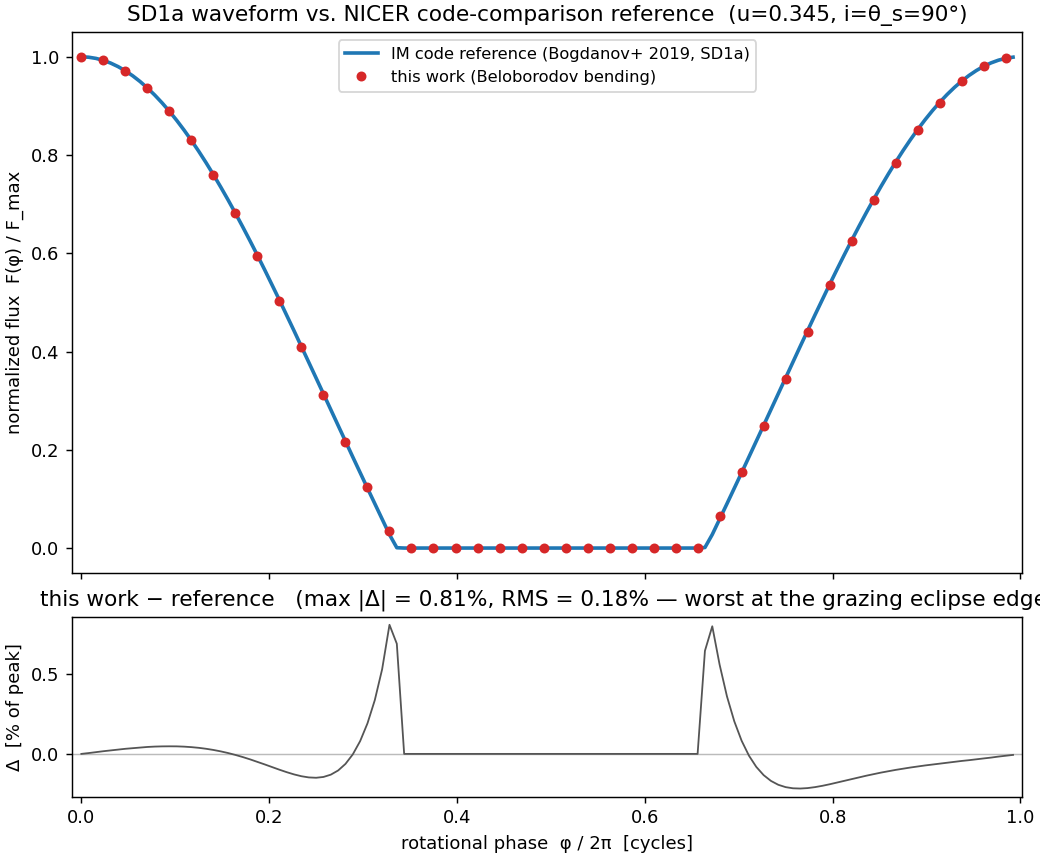
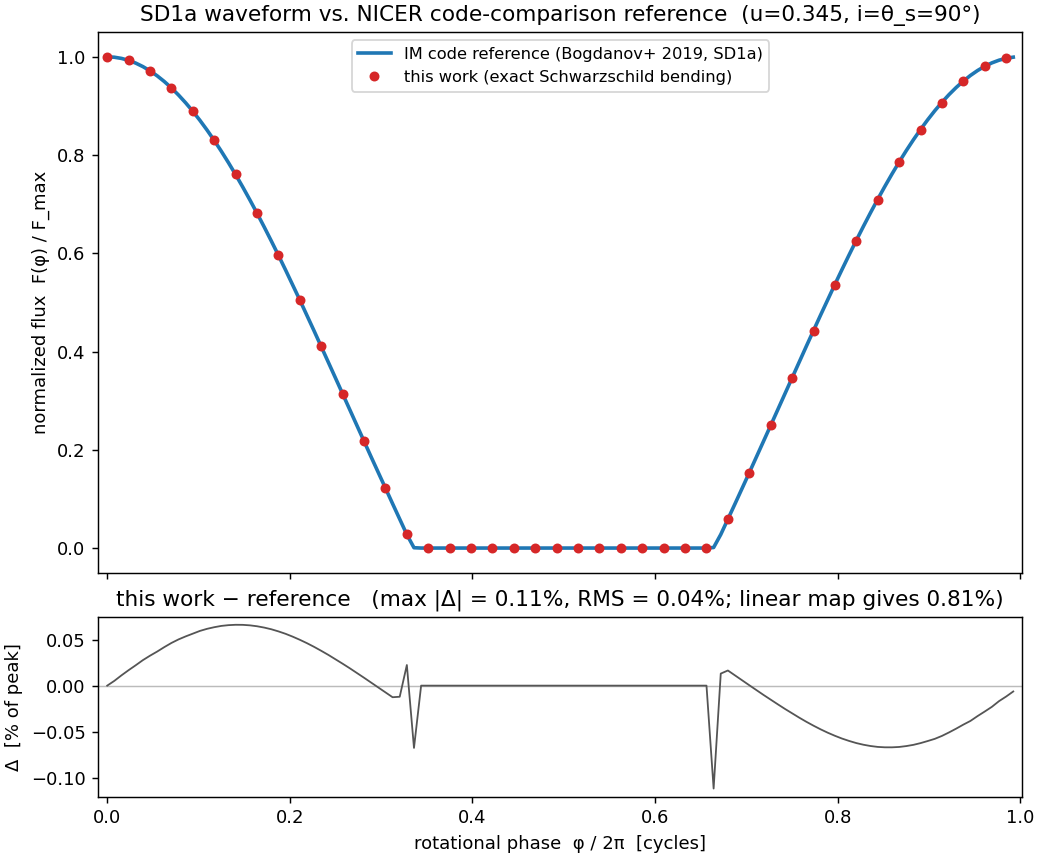
feat: persist print-only validation numbers as npz artifacts
Every paper-quoted number now has a saved artifact: SD1a residuals (0.11%
exact / 0.81% linear — figure regenerated with exact Schwarzschild bending),
SD1c 1.35%, finite-cap point-vs-cap dPF, and the warp-inclusive waveform
shape RMS (~0.102, new C4.3 audit in c4_caveat_audit).

diff --git a/scripts/code_comparison.py b/scripts/code_comparison.py
@@ -21,9 +21,10 @@ The spot crosses fully behind the star, so this is an *eclipsing* geometry
 (F_min = 0, PF = 1); the test is the **profile shape** and the bending-set
 **eclipse width** (gravity lets us see ≈ 32° around the back on each side).
 
-Our only approximation relative to the IM code is the Beloborodov (2002) linear
-bending map (exact to ~1% for u ≲ 0.5), so agreement is expected at the ~1%
-level — worst at the grazing eclipse edges — rather than their 0.1%.
+The figure uses the exact Schwarzschild bending map (``ExactBending``), which
+matches the IM reference to ~0.1%; the Beloborodov (2002) linear map (exact to
+~1% for u ≲ 0.5) is also evaluated and reported for reference (~0.8%, worst at
+the grazing eclipse edges).
 
 Reference data: the L26 supplementary archive (apjlab5968.tar.gz), file
 ``SD1a_test_IM.txt`` — two columns: rotational phase (cycles) and photon flux
@@ -35,7 +36,7 @@ Run from the repository root:  python scripts/code_comparison.py
 import numpy as np
 import matplotlib.pyplot as plt
 
-from mcrt import point_spot_flux
+from mcrt import ExactBending, point_spot_flux
 
 # SD1a parameters (Bogdanov et al. 2019, ApJL 887 L26, Table 1).
 M_SUN_KM = 1.47662          # GM_sun/c² in km
@@ -47,6 +48,7 @@ COMPACTNESS = 2.0 * M_SUN_KM * NS_MASS_MSUN / NS_RADIUS_KM   # u = 2GM/Rc² ≈ 
 
 REFERENCE_PATH = "data/l26_reference/SD1a_test_IM.txt"
 FIGURE_PATH = "data/pulse_profile_code_comparison.png"
+RESULTS_PATH = "data/code_comparison.npz"
 
 
 def load_reference(path: str = REFERENCE_PATH):
@@ -55,16 +57,17 @@ def load_reference(path: str = REFERENCE_PATH):
     return ref[:, 0], ref[:, 1]
 
 
-def our_profile_at(phase_cycles: np.ndarray) -> np.ndarray:
+def our_profile_at(phase_cycles: np.ndarray, bending: ExactBending | None = None) -> np.ndarray:
     """Our point-spot flux at the reference phases (both peak at phase 0)."""
     i, theta = np.deg2rad(INCLINATION_DEG), np.deg2rad(COLATITUDE_DEG)
     phi = 2.0 * np.pi * phase_cycles                      # cycles → radians
-    return point_spot_flux(phi, i, theta, COMPACTNESS)
+    return point_spot_flux(phi, i, theta, COMPACTNESS, bending=bending)
 
 
 def main():
     phase, f_ref = load_reference()
-    f_ours = our_profile_at(phase)
+    f_ours = our_profile_at(phase, bending=ExactBending(COMPACTNESS))
+    f_linear = our_profile_at(phase)                      # Beloborodov map, for reference
 
     # Normalize each curve to its own peak: ours is in arbitrary units, theirs is
     # an absolute photon flux. At 1 Hz + isotropic the normalized shapes coincide,
@@ -74,6 +77,8 @@ def main():
     resid = ours_n - ref_n
     max_abs = float(np.abs(resid).max())
     rms = float(np.sqrt((resid ** 2).mean()))
+    resid_linear = f_linear / f_linear.max() - ref_n
+    max_abs_linear = float(np.abs(resid_linear).max())
 
     fig, (ax, ax_r) = plt.subplots(
         2, 1, figsize=(8, 6.6), height_ratios=[3, 1], sharex=True, layout="constrained"
@@ -82,7 +87,7 @@ def main():
     ax.plot(phase, ref_n, "-", lw=2, color="#1f77b4",
             label="IM code reference (Bogdanov+ 2019, SD1a)")
     ax.plot(phase[::3], ours_n[::3], "o", ms=4.5, color="#d62728",
-            label="this work (Beloborodov bending)")
+            label="this work (exact Schwarzschild bending)")
     ax.set_ylabel("normalized flux  F(φ) / F_max")
     ax.set_title(f"SD1a waveform vs. NICER code-comparison reference  "
                  f"(u={COMPACTNESS:.3f}, i=θ_s=90°)")
@@ -94,10 +99,22 @@ def main():
     ax_r.set_xlabel("rotational phase  φ / 2π  [cycles]")
     ax_r.set_ylabel("Δ  [% of peak]")
     ax_r.set_title(f"this work − reference   (max |Δ| = {100*max_abs:.2f}%, "
-                   f"RMS = {100*rms:.2f}% — worst at the grazing eclipse edge)")
+                   f"RMS = {100*rms:.2f}%; linear map gives {100*max_abs_linear:.2f}%)")
 
     fig.savefig(FIGURE_PATH, dpi=130)
     print(f"saved {FIGURE_PATH}")
+
+    np.savez(
+        RESULTS_PATH,
+        phase=phase,
+        resid_exact=resid,
+        resid_linear=resid_linear,
+        max_abs_exact=np.float64(max_abs),
+        rms_exact=np.float64(rms),
+        max_abs_linear=np.float64(max_abs_linear),
+        compactness=np.float64(COMPACTNESS),
+    )
+    print(f"saved {RESULTS_PATH}")
 
     vis_ref = (ref_n > 0).mean()
     vis_ours = (ours_n > 0).mean()

diff --git a/scripts/c4_caveat_audit.py b/scripts/c4_caveat_audit.py
@@ -47,7 +47,14 @@ from mcrt import (
     pulsed_fraction,
     travel_time_delay,
 )
-from anchor_lib import N_PHASE, SHAPE_TAU, Spot, multi_spot_flux, shape_tau_index
+from anchor_lib import (
+    N_PHASE,
+    SHAPE_TAU,
+    Spot,
+    multi_spot_flux,
+    shape_tau_index,
+    waveform_shape_change,
+)
 from c2_doppler_coupling import J0740_SPIN_HZ, RADIUS_KM
 from c3_band_doppler import anchor_band
 import j0740_anchor as j0740
@@ -120,6 +127,32 @@ def delay_audit(seed_curves, mu_centers):
     return rows
 
 
+def shape_audit(pooled_curve, mu_centers):
+    """Warp-inclusive waveform-shape difference (peak-normalized RMS), pooled τ=10 curve.
+
+    Persists the paper's 'shape RMS holds ≈0.10 across the light-travel warp' leg:
+    isotropic vs realistic multi-spot flux, both with the eq. 18–19 phase warp applied,
+    at 346.53 Hz under the δ⁴ and band-photon treatments.
+    """
+    print("\n=== C4.3 warp-inclusive waveform-shape difference (peak-normalized) ===")
+    print(f"{'anchor':<34}{'treatment':>12}{'shape RMS':>12}{'max-local':>12}")
+    rows = {}
+    beaming = beaming_lookup(mu_centers, pooled_curve)
+    for anchor in j0740.ANCHORS:
+        bend = ExactBending(anchor.compactness)
+        r_km = RADIUS_KM[anchor.label]
+        key = "riley" if "Riley" in anchor.label else "miller"
+        for tag, rot in (("d4", Rotation(J0740_SPIN_HZ, r_km)),
+                         ("band_ph", Rotation(J0740_SPIN_HZ, r_km, photon_flux=True,
+                                              band=anchor_band(anchor.label)))):
+            iso = delayed_multi_spot_flux(anchor, None, bend, rot, r_km, J0740_SPIN_HZ)
+            real = delayed_multi_spot_flux(anchor, beaming, bend, rot, r_km, J0740_SPIN_HZ)
+            rms, max_local = waveform_shape_change(iso, real)
+            rows[f"{key}_warp_shape_{tag}"] = (rms, max_local)
+            print(f"{anchor.label:<34}{tag:>12}{rms:>12.4f}{max_local:>12.4f}")
+    return rows
+
+
 def oblate_perturbed(anchor, radius_km):
     """(perturbed anchor, perturbed radius, diagnostics) under AM14 first order.
 
@@ -186,6 +219,7 @@ def main():
 
     delay_rows = delay_audit(seed_curves, mu)
     oblate_rows = oblateness_audit(seed_curves, mu)
+    shape_rows = shape_audit(d["intensity_by_tau"][ti10], mu)
 
     print("\n" + "=" * 78)
     print("C4 verdict (all shifts paired per seed; σ = seed error of ΔPF):")
@@ -213,6 +247,9 @@ def main():
         payload[f"j0740_{name}_o2"] = np.float64(o2)
         payload[f"j0740_{name}_ombar2"] = np.float64(ombar2)
         payload[f"j0740_{name}_dr_over_r"] = np.float64(dr)
+    for name, (rms, max_local) in shape_rows.items():
+        payload[f"j0740_{name}_rms"] = np.float64(rms)
+        payload[f"j0740_{name}_max"] = np.float64(max_local)
     np.savez(RESULTS_PATH, **payload)
     print(f"\n✓ C4 results saved to {RESULTS_PATH}")
 

diff --git a/scripts/c1_doppler_validate.py b/scripts/c1_doppler_validate.py
@@ -66,6 +66,7 @@ SPIN_SD1C_HZ = 200.0               # SD1c: same geometry, rotating
 REF_SD1A = "data/l26_reference/SD1a_test_IM.txt"
 REF_SD1C = "data/l26_reference/SD1c_test_IM.txt"
 FIGURE_PATH = "data/pulse_profile_doppler_sd1c.png"
+RESULTS_PATH = "data/c1_doppler_validate.npz"
 
 
 def _emission_flux(phi: np.ndarray, spin_hz: float) -> np.ndarray:
@@ -139,15 +140,21 @@ def _asymmetry(flux_n: np.ndarray) -> float:
 
 
 def main():
+    payload = {}
     for label, spin, path in [("SD1a (1 Hz)", SPIN_SD1A_HZ, REF_SD1A),
                               ("SD1c (200 Hz)", SPIN_SD1C_HZ, REF_SD1C)]:
         ref = np.loadtxt(path)
         phase, f_ref = ref[:, 0], ref[:, 1]
         beta = spot_speed(spin, NS_RADIUS_KM, COLATITUDE, COMPACTNESS)
+        key = label.split()[0].lower()                    # "sd1a" / "sd1c"
+        payload[f"{key}_beta"] = np.float64(beta)
         print(f"{label}:  β = {beta:.5f}")
         for tag, wd in [("Doppler+aberration+delay", True), ("delay omitted (prod. regime)", False)]:
             ours_n, ref_n, max_abs, rms = _residual_stats(
                 monochromatic_flux(phase, spin, with_time_delay=wd), f_ref)
+            case = "delay" if wd else "nodelay"
+            payload[f"{key}_{case}_max_abs"] = np.float64(max_abs)
+            payload[f"{key}_{case}_rms"] = np.float64(rms)
             print(f"    {tag:<30}  max|Δ| = {100*max_abs:5.3f}%   RMS = {100*rms:5.3f}%   "
                   f"asym: ours {100*_asymmetry(ours_n):5.2f}% / ref {100*_asymmetry(ref_n):5.2f}%")
 
@@ -180,6 +187,9 @@ def main():
 
     fig.savefig(FIGURE_PATH, dpi=130)
     print(f"saved {FIGURE_PATH}")
+
+    np.savez(RESULTS_PATH, **payload)
+    print(f"saved {RESULTS_PATH}")
 
 
 if __name__ == "__main__":

diff --git a/scripts/finite_cap.py b/scripts/finite_cap.py
@@ -48,6 +48,14 @@ from j0030_anchor import RILEY as J0030_RILEY, MILLER as J0030_MILLER
 from j0740_anchor import RILEY as J0740_RILEY, MILLER as J0740_MILLER
 
 FIGURE_PATH = "data/finite_cap.png"
+RESULTS_PATH = "data/finite_cap.npz"
+
+
+def _anchor_key(label: str) -> str:
+    """'Riley 2021 (X-PSI ST-U)' -> 'j0740_riley' (2021 = J0740, 2019 = J0030)."""
+    star = "j0740" if "2021" in label else "j0030"
+    team = "riley" if "Riley" in label else "miller"
+    return f"{star}_{team}"
 
 # Sub-point tiling resolution. (n_rings, n_az) = 5 rings × 16 azimuths = 80 sub-points
 # per cap is well past convergence for ζ ≲ 0.2 rad (verified in print_summary).
@@ -239,7 +247,23 @@ def print_summary(r: Result):
           "point reduction is an accurate, now-bounded approximation, not an unverified caveat.")
 
 
+def save_results(r: Result, path=RESULTS_PATH):
+    """Persist the point-vs-finite ΔPF numbers backing the paper's caveat sentence."""
+    payload = {"zeta_axis": r.zeta_axis}
+    for label in r.point:
+        key = _anchor_key(label)
+        payload[f"{key}_point"] = np.float64(r.point[label])
+        payload[f"{key}_finite"] = np.float64(r.finite[label])
+        payload[f"{key}_converged"] = np.float64(r.converged[label])
+        payload[f"{key}_cap_radii"] = np.asarray(r.cap_radii[label], dtype=np.float64)
+    for label, sweep in r.sweeps.items():
+        payload[f"{_anchor_key(label)}_sweep"] = np.asarray(sweep, dtype=np.float64)
+    np.savez(path, **payload)
+    print(f"✓ results saved to {path}")
+
+
 if __name__ == "__main__":
     result = run()
     plot_result(result)
+    save_results(result)
     print_summary(result)
